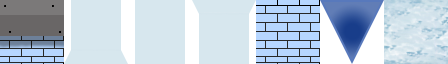
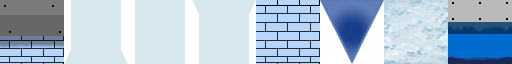
added cave placement

diff --git a/GDS_126_Engine/js/Data/cave.js b/GDS_126_Engine/js/Data/cave.js
@@ -2,14 +2,14 @@ var x=false;
 var caveData ={
 	info:{
 		layout:[
-			[x,x,x,x,x,x,6,6,6,6,6,6,6,6,6,6,6,6,6,6,6,6,6,6,6,6,6,6,6,6,6,6,6,6,2],
-			[x,x,x,x,x,6,6,1,1,1,1,1,1,1,1,1,1,1,1,1,1,1,1,1,1,1,1,1,1,1,1,1,1,1,2],
-			[x,x,x,x,6,6,7,x,x,x,x,x,x,7,7,x,7,7,x,x,x,x,x,x,x,x,x,x,x,x,x,x,x,x,2],
-			[x,x,x,6,6,6,x,x,x,x,x,x,x,x,x,x,x,x,x,x,x,x,x,x,x,x,x,x,x,x,x,x,x,x,2],
-			[x,x,6,6,6,6,x,x,x,x,x,x,x,x,x,x,x,x,x,x,x,x,x,x,x,x,x,x,x,x,x,x,x,x,2],
-			[x,6,6,6,6,6,x,x,x,x,x,x,x,x,x,x,x,x,x,x,x,x,x,x,x,x,x,x,x,x,x,x,x,x,2],
-			[6,6,6,6,6,6,x,x,x,x,x,x,x,x,x,x,x,x,x,x,x,x,x,x,x,x,x,x,x,x,x,x,x,x,2],
-			[x,x,x,x,x,x,x,x,x,x,x,x,x,x,x,x,x,x,x,x,x,x,x,x,x,x,x,x,x,x,x,x,x,x,x]
+			[x,x,x,x,x,x,6,0,0,0,0,0,0,0,0,0,0,0,0,0,0,0,0,0,0,0,0,0,0,2,0,0,0,0,0],
+			[x,x,x,x,x,6,6,4,4,5,3,4,4,4,4,5,x,4,4,4,4,4,4,4,4,5,4,4,4,2,5,5,4,4,x],
+			[x,x,x,x,6,6,6,x,x,x,2,x,x,x,x,x,x,x,x,x,x,x,x,x,x,x,x,x,x,2,x,x,x,x,x],
+			[x,x,x,6,6,6,6,x,x,x,2,x,x,x,x,x,3,x,x,x,x,x,x,x,x,x,x,x,x,2,x,x,x,x,x],
+			[x,x,6,6,6,6,6,x,x,x,2,x,x,x,x,x,2,x,x,x,x,x,x,x,x,x,x,x,x,2,x,x,x,x,x],
+			[x,6,6,6,6,6,6,x,x,x,2,x,x,x,x,x,2,x,x,x,x,x,x,x,x,x,x,x,x,2,x,x,x,x,x],
+			[6,6,6,6,6,6,6,x,x,x,1,x,x,x,x,x,1,x,x,x,x,x,x,x,x,x,x,x,x,1,x,x,x,x,x],
+			[6,6,6,6,6,6,6,7,7,7,7,7,7,7,7,7,7,7,7,7,7,7,7,7,7,7,7,7,7,7,7,7,7,7,7]
 			
 			
 		],
@@ -69,13 +69,14 @@ var caveData ={
 	var caveBackData ={
 		info:{
 			layout:[
-			[0,8,8,8,8,8,8,8,8,8,8,8,8,8,8,8,8,8,8,8,8,8,8,8,8,8,8,8,8,8,8,8,8,8,8],
-			[x,8,8,8,8,8,8,8,8,8,8,8,8,8,8,8,8,8,8,8,8,8,8,8,8,8,8,8,8,8,8,8,8,8,8],
-			[x,8,8,8,8,8,8,8,8,8,8,8,8,8,8,8,8,8,8,8,8,8,8,8,8,8,8,8,8,8,8,8,8,8,8],
-			[x,8,8,8,8,3,3,3,3,3,8,8,8,8,8,8,8,8,8,8,8,8,8,8,8,8,8,8,8,8,8,8,8,8,8],
-			[3,8,8,8,8,3,x,x,x,3,8,8,8,8,8,8,8,8,8,8,8,8,8,8,8,8,8,8,8,8,8,8,8,8,8],
-			[3,8,8,8,8,3,3,3,3,3,8,8,8,8,8,8,8,8,8,8,8,8,8,8,8,8,8,8,8,8,8,8,8,8,8],
-			[3,8,8,8,8,8,8,8,8,8,8,8,8,8,8,8,8,8,8,8,8,8,8,8,8,8,8,8,8,8,8,8,8,8,8],
+				[x,x,x,x,x,x,6,0,0,0,0,0,0,0,0,0,0,0,0,0,0,0,0,0,0,0,0,0,0,0,0,0,0,0,0],
+				[x,x,x,x,x,6,6,4,4,4,4,4,4,4,4,4,4,4,4,4,4,4,4,4,4,4,4,4,4,4,4,4,4,4,4],
+				[x,x,x,x,6,6,6,4,4,4,4,4,4,4,4,4,4,4,5,5,x,5,x,5,4,4,4,4,4,4,4,4,4,4,4],
+				[x,x,x,6,6,6,6,4,4,4,4,4,4,4,4,4,4,4,x,x,x,x,x,x,4,4,4,4,4,4,4,4,4,4,4],
+				[x,x,6,6,6,6,6,4,4,4,4,4,4,4,4,4,4,4,x,x,x,x,x,x,4,4,4,4,4,4,4,4,4,4,4],
+				[x,6,6,6,6,6,6,4,4,4,4,4,4,4,4,4,4,4,4,4,4,4,4,4,4,4,4,4,4,4,4,4,4,4,4],
+				[6,6,6,6,6,6,6,4,4,4,4,4,4,4,4,4,4,4,4,4,4,4,4,4,4,4,4,4,4,4,4,4,4,4,4],
+				[6,6,6,6,6,6,6,7,7,7,7,7,7,7,7,7,7,7,7,7,7,7,7,7,7,7,7,7,7,7,7,7,7,7,4],
 			],
 			src:`images/CaveSpreadsheet.png`,
 		},
@@ -85,14 +86,14 @@ var caveData ={
 		var caveHitData={
 			info:{
 				layout:[
-					[0,8,8,8,8,8,8,8,8,8,8,8,8,8,8,8,8,8,8,8,8,8,8,8,8,8,8,8,8,8,8,8,8,8,2],
-					[2,8,1,8,1,1,8,1,1,1,1,1,1,8,8,1,8,8,1,1,1,1,1,1,1,1,1,1,1,1,1,1,1,1,2],
-					[2,x,x,8,x,x,8,x,x,x,x,x,x,8,8,x,1,1,x,x,x,x,x,x,x,x,x,x,x,x,x,x,x,x,2],
-					[6,x,x,x,x,x,x,x,x,x,x,x,x,x,x,x,x,x,x,x,x,x,x,x,x,x,x,x,x,x,x,x,x,x,2],
-					[x,x,x,x,x,x,x,x,x,x,x,x,x,x,x,x,x,x,x,x,x,x,x,x,x,x,x,x,x,x,x,x,x,x,2],
-					[x,x,x,x,x,x,x,x,x,x,x,x,x,x,x,x,x,x,x,x,x,x,x,x,x,x,x,x,x,x,x,x,x,x,2],
-					[x,x,x,x,x,x,x,x,x,x,x,x,x,x,x,x,x,x,x,x,x,x,x,x,x,x,x,x,x,x,x,x,x,x,2],
-					[x,x,x,x,x,x,x,x,x,x,x,x,x,x,x,x,x,x,x,x,x,x,x,x,x,x,x,x,x,x,x,x,x,x,2]
+					[x,8,8,8,8,8,8,8,8,8,8,8,8,8,8,8,8,8,8,8,8,8,8,8,8,8,8,8,8,8,8,8,8,8,4],
+					[x,8,1,8,1,1,8,1,1,1,1,1,1,8,8,1,8,8,1,1,1,1,1,1,1,1,1,1,1,1,1,1,1,1,4],
+					[x,x,x,x,x,x,x,x,x,x,x,x,x,x,x,x,x,x,x,x,x,x,x,x,x,x,x,x,x,x,x,x,x,x,4],
+					[x,x,x,x,x,x,x,x,x,x,x,x,x,x,x,x,x,x,x,x,x,x,x,x,x,x,x,x,x,x,x,x,x,x,4],
+					[x,x,x,x,x,x,x,x,x,x,x,x,x,x,x,x,x,x,x,x,x,x,x,x,x,x,x,x,x,x,x,x,x,x,4],
+					[x,x,x,x,x,x,x,x,x,x,x,x,x,x,x,x,x,x,x,x,x,x,x,x,x,x,x,x,x,x,x,x,x,x,4],
+					[x,x,x,x,x,x,x,x,x,x,x,x,x,x,x,x,x,x,x,x,x,x,x,x,x,x,x,x,x,x,x,x,x,x,4],
+					[x,x,x,x,x,x,x,x,x,x,x,x,x,x,x,x,x,x,x,x,x,x,x,x,x,x,x,x,x,x,x,x,x,x,4]
 					
 					
 				],
